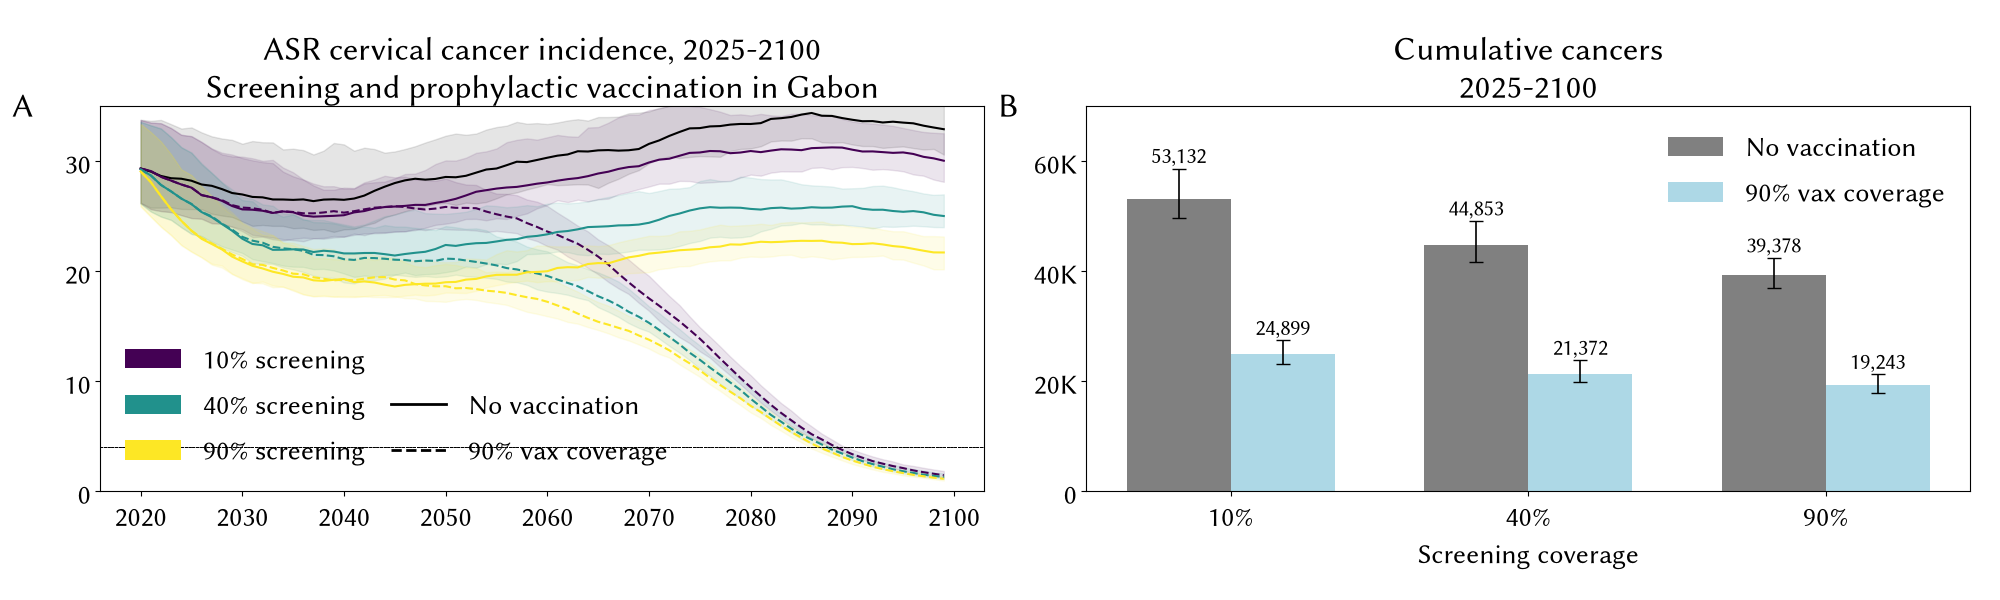
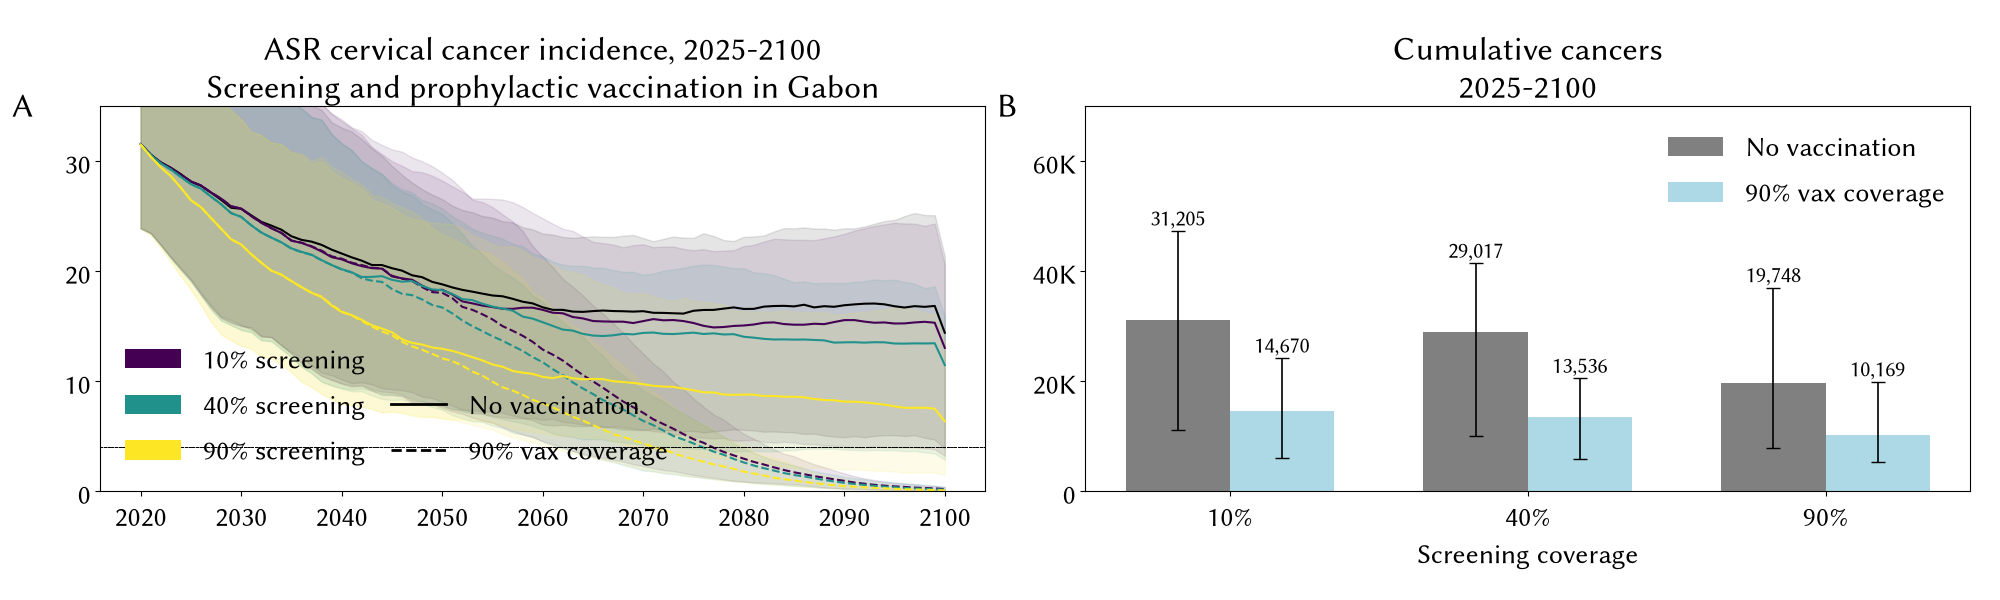
Regenerate figures and TABLE1 under v3
- figures/gabon_calib.png: v3 calibration fit rendered via
  hpv.plot_calibration on the top-50 shrunk calib. Data points sit on
  the top-50 median across the cancers-by-age curve; ASR data 30.8 lies
  within the top-50 95% PI at median 29.6.
- figures/gabon_vax_screening_top10.png: v3 scenarios under 10 parsets
  x 1 seed. Rank order preserved (Baseline highest, Screen 90% + 90%
  vax lowest). Elimination years: Screen 10/40/90% + 90% vax reach
  ASR<4 by 2077/2076/2072. Cumulative-cancer bars: Screen 10% + no
  vax at 31k, Screen 90% + 90% vax at 10k.
- TABLE1.md + results/table1_parameter_uncertainty.csv: 13-row v3
  parameter table (beta dropped, network/cross_immunity/dur_cin
  renames). Priors at the upper bound in the top-10: hi5_dur_cin_std
  (24.0 twice at top), f_cross_layer near 0.5, m_cross_layer near 0.7,
  network_f_partners_casual near 0.6, cross_immunity_rel_sev_loc near
  1.5. Candidates for widening in a future calibration.

diff --git a/TABLE1.md b/TABLE1.md
@@ -1,20 +1,19 @@
 # Table 1 — parameter uncertainty propagated in `run_scenarios.py`
 
-The top 10 calibration parsets (ranked by mismatch, taken from `results/gabon_pars_top50.obj`) drive the parameter uncertainty band in the scenario ensemble. Prior bounds are the calibration search intervals defined in `run_sims.run_calib`. **best** is rank 1 by mismatch (mismatch = 0.875).
+The top 10 calibration parsets (ranked by mismatch, taken from the top-10 rows of `results/gabon_calib.obj`) drive the parameter uncertainty band in the scenario ensemble. Prior bounds are the calibration search intervals defined in `run_sims.make_calib_pars`. **best** is rank 1 by mismatch (mismatch = 2.393).
 
 | Parameter | prior_low | prior_high | best | top10_min | top10_median | top10_max |
 |-----------|-----------|------------|------|-----------|--------------|-----------|
-| `beta` | 0.100 | 0.340 | 0.120 | 0.120 | 0.120 | 0.140 |
-| `m_cross_layer` | 0.100 | 0.700 | 0.150 | 0.150 | 0.200 | 0.250 |
-| `f_cross_layer` | 0.050 | 0.500 | 0.050 | 0.050 | 0.050 | 0.050 |
-| `m_partners_c_par1` | 0.100 | 0.600 | 0.100 | 0.100 | 0.140 | 0.560 |
-| `f_partners_c_par1` | 0.100 | 0.600 | 0.140 | 0.100 | 0.100 | 0.140 |
-| `sev_dist_par1` | 0.500 | 1.500 | 1.360 | 1.360 | 1.400 | 1.500 |
-| `hi5_cancer_fn_transform_prob` | 5.00e-04 | 2.50e-03 | 1.10e-03 | 9.00e-04 | 1.30e-03 | 1.50e-03 |
-| `hi5_cin_fn_k` | 0.100 | 0.250 | 0.220 | 0.190 | 0.200 | 0.220 |
-| `hi5_dur_cin_par1` | 3.500 | 5.500 | 5.000 | 5.000 | 5.000 | 5.500 |
-| `hi5_dur_cin_par2` | 16.000 | 24.000 | 24.000 | 24.000 | 24.000 | 24.000 |
-| `ohr_cancer_fn_transform_prob` | 5.00e-04 | 2.50e-03 | 1.30e-03 | 5.00e-04 | 5.00e-04 | 1.30e-03 |
-| `ohr_cin_fn_k` | 0.100 | 0.250 | 0.130 | 0.100 | 0.110 | 0.130 |
-| `ohr_dur_cin_par1` | 3.500 | 5.500 | 4.000 | 4.000 | 5.000 | 5.000 |
-| `ohr_dur_cin_par2` | 16.000 | 24.000 | 16.500 | 16.000 | 17.000 | 17.500 |
+| `m_cross_layer` | 0.100 | 0.700 | 0.699 | 0.635 | 0.662 | 0.700 |
+| `f_cross_layer` | 0.050 | 0.500 | 0.487 | 0.435 | 0.489 | 0.500 |
+| `network_m_partners_casual` | 0.100 | 0.600 | 0.422 | 0.422 | 0.527 | 0.571 |
+| `network_f_partners_casual` | 0.100 | 0.600 | 0.589 | 0.426 | 0.576 | 0.593 |
+| `cross_immunity_rel_sev_loc` | 0.500 | 1.500 | 1.398 | 1.263 | 1.445 | 1.484 |
+| `hi5_cancer_fn_transform_prob` | 5.00e-04 | 2.50e-03 | 2.04e-03 | 1.79e-03 | 2.20e-03 | 2.50e-03 |
+| `hi5_cin_fn_k` | 0.100 | 0.250 | 0.116 | 0.116 | 0.199 | 0.225 |
+| `hi5_dur_cin_mean` | 3.500 | 5.500 | 4.234 | 3.515 | 4.044 | 4.810 |
+| `hi5_dur_cin_std` | 16.000 | 24.000 | 20.830 | 16.691 | 20.545 | 22.416 |
+| `ohr_cancer_fn_transform_prob` | 5.00e-04 | 2.50e-03 | 1.98e-03 | 1.20e-03 | 1.38e-03 | 1.98e-03 |
+| `ohr_cin_fn_k` | 0.100 | 0.250 | 0.129 | 0.108 | 0.188 | 0.232 |
+| `ohr_dur_cin_mean` | 3.500 | 5.500 | 5.276 | 3.500 | 4.994 | 5.276 |
+| `ohr_dur_cin_std` | 16.000 | 24.000 | 21.613 | 16.330 | 18.996 | 21.942 |
